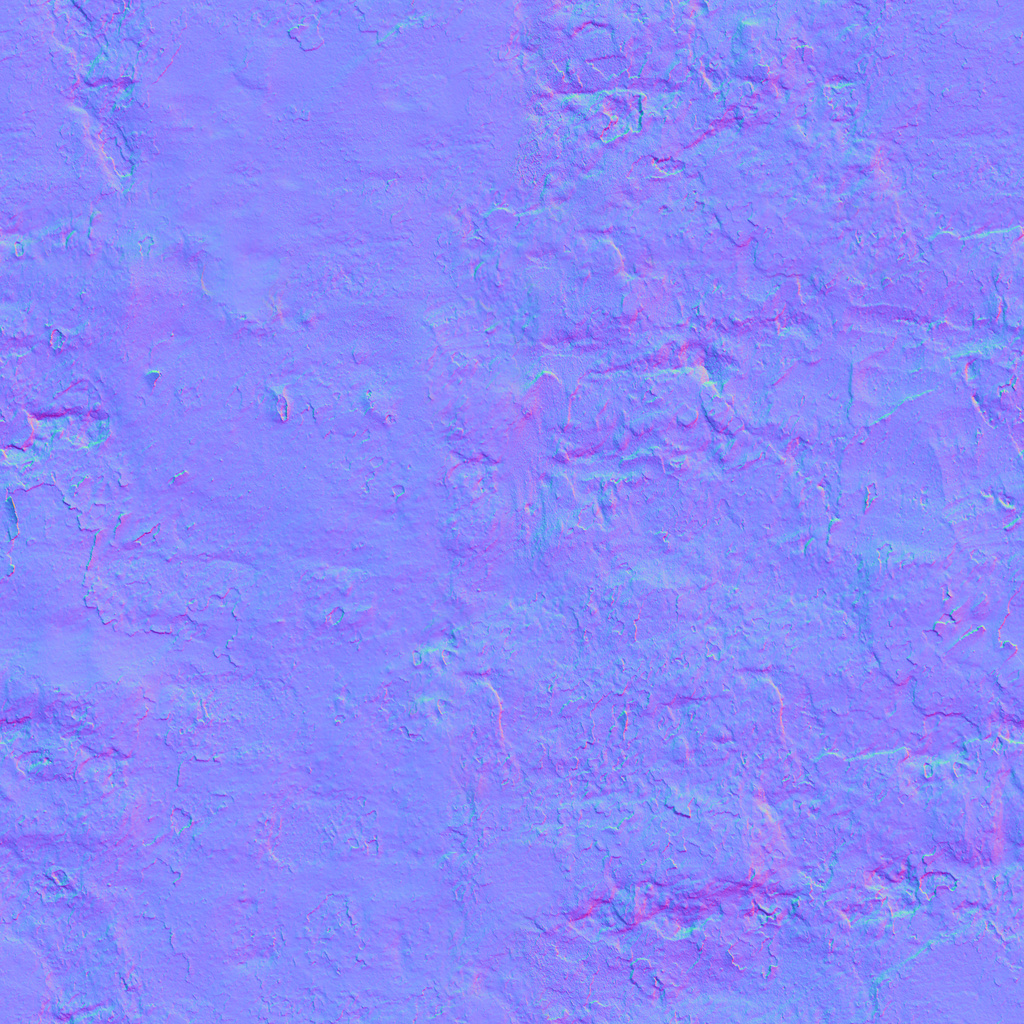
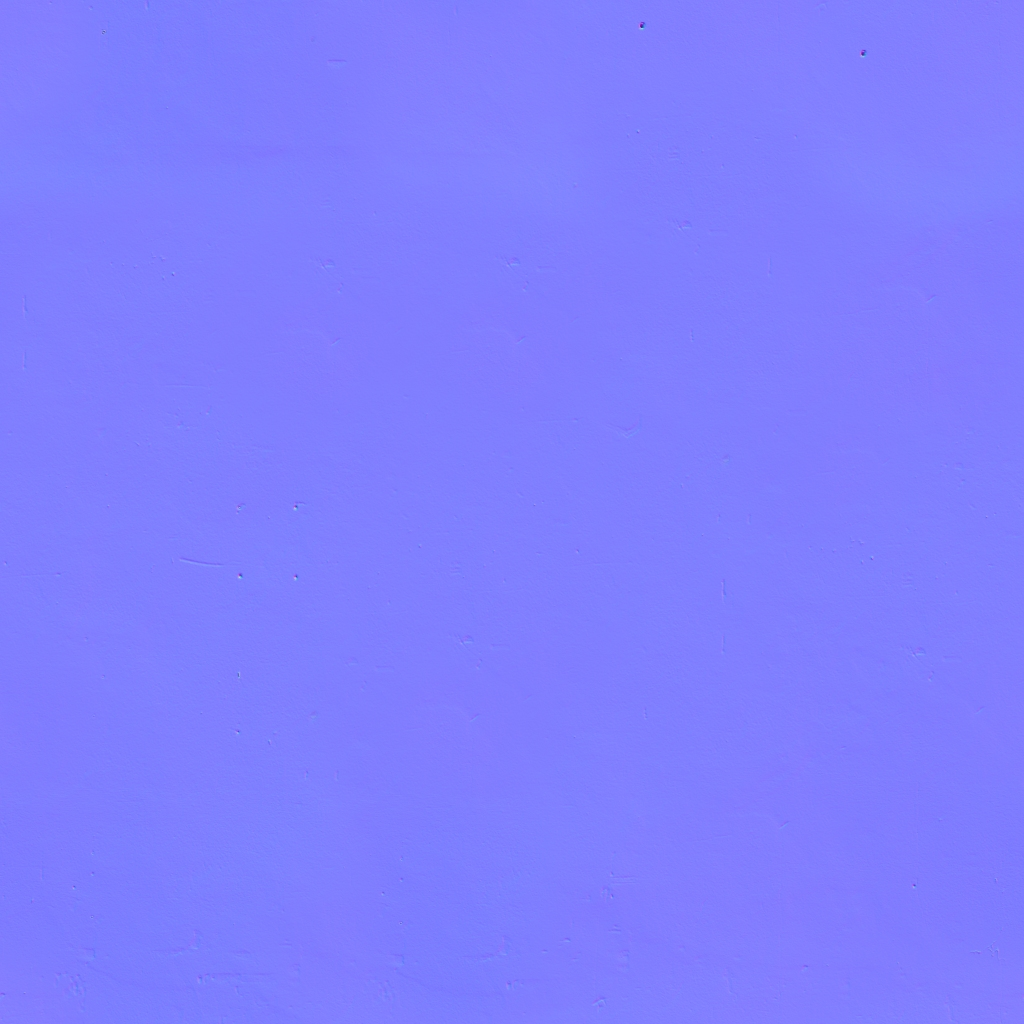
feat(viewer): tune exposure, scope environment to glossy slots, swap ceiling plaster (#179)
Measured the environment lookup as the dominant added GPU cost under
software GL (about 110 of 268 ms CPU per frame), so only the glossy
slots (floors, glass, frames, hard furniture) read it; matte walls,
ceilings, roofs and carpet skip it and the AO sampler. Ceiling set
switched from peeling plaster to smooth painted plaster with a linear
albedo gain; exposure tuned to 0.9.

diff --git a/src/viewer/sceneBuilder.ts b/src/viewer/sceneBuilder.ts
@@ -44,6 +44,7 @@ import {
   UnsignedByteType,
   WebGLRenderer,
   type Material,
+  type MeshStandardMaterial,
   type Object3D,
   type Texture,
 } from 'three';
@@ -295,7 +296,7 @@ export function fitShadowFrustum(
  * decimals), so the picture is tuned here and in the environment
  * intensity only.
  */
-export const TONE_MAPPING_EXPOSURE = 1;
+export const TONE_MAPPING_EXPOSURE = 0.9;
 
 /** Room-environment intensity at full daylight and at the night floor. */
 export const ENV_INTENSITY_NOON = 0.5;
@@ -303,6 +304,25 @@ export const ENV_INTENSITY_NIGHT = 0.12;
 
 /** The room environment is Y-up; the viewer's world is Z-up. */
 const ENV_ROTATION_X_RAD = Math.PI / 2;
+
+/**
+ * Slots that read a specular environment: the glossy floors, glass,
+ * frames and the hard-surface furniture. The matte architectural slots
+ * (walls, ceilings, roofs, carpet) skip the lookup: it is the most
+ * expensive part of the PBR shader on software GL and gains them
+ * little, since the hemisphere and ambient lights already carry their
+ * diffuse fill.
+ */
+const ENV_SLOTS: ReadonlySet<string> = new Set([
+  'wood',
+  'tile',
+  'concrete',
+  'glass',
+  'windowFrame',
+  'furn-wood',
+  'furn-porcelain',
+  'furn-laminate',
+]);
 
 /** Ground plot: how far below the active floor it sits, meters (clears floor slabs). */
 export const GROUND_PLOT_DROP_M = 0.04;
@@ -312,8 +332,13 @@ const CONTACT_SHADOW_LIFT_M = 0.005;
 /** Contact-shadow texture resolution (square, texels). */
 const CONTACT_SHADOW_TEXELS = 128;
 
-/** Scene each light trio belongs to, so applySunPose can retune the environment. */
-const sceneByLights = new WeakMap<ViewerLights, Scene>();
+/** The environment-lit materials of one built scene, keyed by its lights. */
+interface EnvBinding {
+  materials: MeshStandardMaterial[];
+  /** The environment texture the materials currently carry. */
+  attached: Texture | null;
+}
+const envByLights = new WeakMap<ViewerLights, EnvBinding>();
 
 /** Environment intensity for a sun intensity factor (night floor to 1). */
 function environmentIntensityFor(intensityFactor: number): number {
@@ -391,8 +416,11 @@ export function applySunPose(
   lights.sun.intensity = SUN_INTENSITY * state.intensityFactor;
   lights.sun.color.set(SUN_COLOR).lerp(SUN_DUSK_COLOR, state.duskBlend);
   lights.amb.intensity = AMBIENT_INTENSITY * state.ambientFactor;
-  const scene = sceneByLights.get(lights);
-  if (scene) scene.environmentIntensity = environmentIntensityFor(state.intensityFactor);
+  const binding = envByLights.get(lights);
+  if (binding) {
+    const intensity = environmentIntensityFor(state.intensityFactor);
+    for (const m of binding.materials) m.envMapIntensity = intensity;
+  }
   return state;
 }
 
@@ -685,18 +713,20 @@ export function buildViewerScene(
 
   const lights: ViewerLights = { sun, hemi, amb };
   // Environment (#179): the scene is built before configureRenderer
-  // makes the session's room environment, so it is borrowed lazily on
-  // the first render. applySunPose retunes the intensity by time of day.
-  sceneByLights.set(lights, scene);
-  scene.environmentIntensity = ENV_INTENSITY_NOON;
-  scene.environmentRotation.x = ENV_ROTATION_X_RAD;
-  if (quality === 'high') {
-    scene.onBeforeRender = () => {
-      if (sessionEnvironment && scene.environment !== sessionEnvironment.texture) {
-        scene.environment = sessionEnvironment.texture;
-      }
-    };
-  }
+  // makes the session's room environment, so the glossy materials
+  // borrow it lazily on the first render. applySunPose retunes their
+  // intensity by time of day through this binding.
+  const envBinding: EnvBinding = { materials: [], attached: null };
+  envByLights.set(lights, envBinding);
+  scene.onBeforeRender = () => {
+    const env = sessionEnvironment?.texture;
+    if (!env || envBinding.attached === env) return;
+    for (const m of envBinding.materials) {
+      m.envMap = env;
+      m.needsUpdate = true;
+    }
+    envBinding.attached = env;
+  };
   // Default sun pose (issue #121): identity at DEFAULT_SUN_SETTINGS —
   // the noon perch (8, −8, 12) the pre-#121 build hard-coded — so the
   // default output stays byte-identical. The controller re-applies the
@@ -723,6 +753,11 @@ export function buildViewerScene(
     // merged fan windings vary per triangle; double-sided removes any
     // missing-face flicker for negligible cost at this poly count.
     mat.side = DoubleSide;
+    if (hiQuality && quality === 'high' && ENV_SLOTS.has(bucket.slot)) {
+      mat.envMapIntensity = ENV_INTENSITY_NOON;
+      mat.envMapRotation.x = ENV_ROTATION_X_RAD;
+      envBinding.materials.push(mat);
+    }
 
     const mesh = new Mesh(geo, mat);
     mesh.name = `slot-${bucket.slot}`;

diff --git a/tests/unit/viewer.scene-materials.spec.ts b/tests/unit/viewer.scene-materials.spec.ts
@@ -9,6 +9,7 @@ import {
   ACESFilmicToneMapping,
   BufferAttribute,
   Mesh,
+  type MeshStandardMaterial,
   SRGBColorSpace,
   Scene,
   Texture,
@@ -301,31 +302,48 @@ describe('room environment', () => {
     expect(builds).toBe(1);
   });
 
-  it('is attached to a scene built BEFORE the renderer was configured', () => {
-    const built = buildViewerScene(scene([WALL_QUAD]), 'high');
-    expect(built.scene.environment).toBeNull();
+  it('reaches the glossy slots of a scene built BEFORE the renderer was configured', () => {
+    const built = buildViewerScene(scene([FLOOR_QUAD, WALL_QUAD]), 'high');
+    const floor = meshFor(built, 'wood').material as MeshStandardMaterial;
+    expect(floor.envMap).toBeNull();
 
     const env = new Texture();
     ensureEnvironment(fakeRenderer(), () => env);
     renderTick(built.scene);
-    expect(built.scene.environment).toBe(env);
+    expect(floor.envMap).toBe(env);
+  });
+
+  it('turns the environment Y-up to the viewer Z-up', () => {
+    const built = buildViewerScene(scene([FLOOR_QUAD]), 'high');
+    const floor = meshFor(built, 'wood').material as MeshStandardMaterial;
+    expect(floor.envMapRotation.x).toBeCloseTo(Math.PI / 2, 6);
+  });
+
+  it('leaves the matte architectural slots out of the environment lookup', () => {
+    const built = buildViewerScene(scene([WALL_QUAD, ROOF_QUAD]), 'high');
+    ensureEnvironment(fakeRenderer(), () => new Texture());
+    renderTick(built.scene);
+    for (const slot of ['wall', 'roof']) {
+      expect((meshFor(built, slot).material as MeshStandardMaterial).envMap, slot).toBeNull();
+    }
   });
 
   it('LOW scenes never pick the environment up', () => {
-    const built = buildViewerScene(scene([WALL_QUAD]), 'low');
+    const built = buildViewerScene(scene([FLOOR_QUAD]), 'low', true);
     ensureEnvironment(fakeRenderer(), () => new Texture());
     renderTick(built.scene);
-    expect(built.scene.environment).toBeNull();
+    expect((meshFor(built, 'wood').material as MeshStandardMaterial).envMap).toBeNull();
   });
 
   it('applySunPose dims the environment toward night', () => {
-    const built = buildViewerScene(scene([WALL_QUAD]), 'high');
-    const noon = built.scene.environmentIntensity;
+    const built = buildViewerScene(scene([FLOOR_QUAD]), 'high');
+    const floor = meshFor(built, 'wood').material as MeshStandardMaterial;
+    const noon = floor.envMapIntensity;
     applySunPose(built.lights, { timeHours: 22, northOffsetDeg: 0 }, BOUNDS);
-    const night = built.scene.environmentIntensity;
+    const night = floor.envMapIntensity;
     expect(night).toBeLessThan(noon);
     expect(night).toBeGreaterThan(0);
     applySunPose(built.lights, { timeHours: 12, northOffsetDeg: 0 }, BOUNDS);
-    expect(built.scene.environmentIntensity).toBeCloseTo(noon, 6);
+    expect(floor.envMapIntensity).toBeCloseTo(noon, 6);
   });
 });

diff --git a/src/viewer/materials.ts b/src/viewer/materials.ts
@@ -62,11 +62,27 @@ const SLOT_FLAT_COLORS: Record<MaterialSlot, string> = {
 };
 
 /**
- * Albedo tint once a set has loaded, for sets whose scanned colour sits
- * away from the look the slot should have. Absent = white (the map as
- * shot). Values above 1 brighten: three.js does not clamp `color`.
+ * Linear albedo gain once a set has loaded, for sets whose scanned
+ * albedo sits darker than the surface should read. Absent = 1 (the map
+ * as shot). Values above 1 brighten: three.js does not clamp `color`.
+ * The ceiling set is a mid-grey painted plaster; ceilings are white.
  */
-const UPGRADED_TINT: Partial<Record<MaterialSlot, string>> = {};
+const UPGRADED_GAIN: Partial<Record<MaterialSlot, number>> = {
+  ceiling: 3,
+};
+
+/** Matte slots: no AO sampler (indirect light there is a flat hemisphere). */
+const MATTE_SLOTS: ReadonlySet<MaterialSlot> = new Set<MaterialSlot>([
+  'wall',
+  'ceiling',
+  'roof',
+  'carpet',
+]);
+
+/** Tint colour for a linear gain; undefined keeps the loader's white. */
+function gainColor(gain: number | undefined): Color | undefined {
+  return gain === undefined ? undefined : new Color().setScalar(gain);
+}
 
 /** Roughness scalar once the roughness map is in. Absent = 1 (map drives it). */
 const UPGRADED_ROUGHNESS: Partial<Record<MaterialSlot, number>> = {};
@@ -87,6 +103,7 @@ export function buildGroundMaterial(hiQuality = true): MeshStandardMaterial {
   return createPbrMaterial('grass', {
     color: GROUND_FLAT_COLOR,
     roughness: GROUND_ROUGHNESS,
+    ao: false,
   });
 }
 
@@ -124,8 +141,9 @@ export function buildMaterial(slot: MaterialSlot, hiQuality = true): MeshStandar
     return createPbrMaterial(setId, {
       color: SLOT_FLAT_COLORS[slot],
       roughness: FLAT_ROUGHNESS[slot],
-      upgradedColor: UPGRADED_TINT[slot],
+      upgradedColor: gainColor(UPGRADED_GAIN[slot]),
       upgradedRoughness: UPGRADED_ROUGHNESS[slot],
+      ao: !MATTE_SLOTS.has(slot),
     });
   }
   return new MeshStandardMaterial({

diff --git a/src/viewer/assets/loader.ts b/src/viewer/assets/loader.ts
@@ -172,6 +172,11 @@ export interface PbrMaterialOptions {
   upgradedColor?: ColorRepresentation;
   /** Roughness scalar once the map is in; defaults to 1 (map drives it). */
   upgradedRoughness?: number;
+  /**
+   * Wire the packed AO channel (default true). Matte surfaces skip it:
+   * the extra sampler costs real time for little visible gain.
+   */
+  ao?: boolean;
 }
 
 /** Materials still waiting for their set (disposed ones are removed). */
@@ -192,6 +197,7 @@ export function createPbrMaterial(
   options: PbrMaterialOptions,
 ): MeshStandardMaterial {
   const ph = getPlaceholders();
+  const withAo = options.ao ?? true;
   const mat = new MeshStandardMaterial({
     color: options.color,
     roughness: options.roughness,
@@ -199,7 +205,7 @@ export function createPbrMaterial(
     map: ph.white,
     normalMap: ph.normal,
     roughnessMap: ph.arm,
-    aoMap: ph.arm,
+    ...(withAo ? { aoMap: ph.arm } : {}),
   });
 
   pendingUpgrades.add(mat);
@@ -215,7 +221,7 @@ export function createPbrMaterial(
       mat.map = set.color;
       mat.normalMap = set.normal;
       mat.roughnessMap = set.roughness;
-      if (textureSetSpec(setId).packedArm) mat.aoMap = set.roughness;
+      if (withAo && textureSetSpec(setId).packedArm) mat.aoMap = set.roughness;
       mat.color.set(options.upgradedColor ?? 0xffffff);
       mat.roughness = options.upgradedRoughness ?? 1;
       mat.needsUpdate = true;

diff --git a/tests/unit/viewer.materials.spec.ts b/tests/unit/viewer.materials.spec.ts
@@ -115,4 +115,21 @@ describe('buildMaterial — slot routing', () => {
     expect(buildMaterial('wood').color.getHexString()).toBe('a06a3c');
     expect(buildMaterial('ceiling').color.getHexString()).toBe('fafafa');
   });
+
+  it('skips the AO sampler on the matte architectural slots and keeps it on floors', () => {
+    for (const slot of ['wall', 'ceiling', 'roof', 'carpet'] as const) {
+      expect(buildMaterial(slot).aoMap, slot).toBeNull();
+    }
+    for (const slot of ['wood', 'tile', 'concrete'] as const) {
+      expect(buildMaterial(slot).aoMap, slot).toBeTruthy();
+    }
+  });
+
+  it('brightens the ceiling set once loaded: the scanned plaster is a mid grey', async () => {
+    const ceiling = buildMaterial('ceiling');
+    const wall = buildMaterial('wall');
+    await new Promise((r) => setTimeout(r, 0));
+    expect(ceiling.color.r).toBeGreaterThan(1);
+    expect(wall.color.getHexString()).toBe('ffffff');
+  });
 });

diff --git a/tests/unit/viewer.assets.loader.spec.ts b/tests/unit/viewer.assets.loader.spec.ts
@@ -186,6 +186,20 @@ describe('createPbrMaterial — in-place upgrade', () => {
   });
 });
 
+describe('createPbrMaterial — ambient occlusion opt-out', () => {
+  it('wires no AO map, before or after the upgrade, when ao is false', async () => {
+    const { requests, fetcher } = manualFetcher();
+    setTextureFetcher(fetcher);
+    const mat = createPbrMaterial('plaster-white', { color: '#e8e2d8', roughness: 0.92, ao: false });
+    expect(mat.aoMap).toBeNull();
+    for (const r of requests) r.resolve();
+    await flush();
+
+    expect(mat.aoMap).toBeNull();
+    expect(mat.roughnessMap).toBeTruthy();
+  });
+});
+
 describe('createPbrMaterial — failure fallback', () => {
   it('a failed download leaves the flat colour and placeholders, never an empty map', async () => {
     const { requests, fetcher } = manualFetcher();

diff --git a/src/viewer/assets/manifest.ts b/src/viewer/assets/manifest.ts
@@ -54,7 +54,7 @@ const SETS: Record<TextureSetId, TextureSetSpec> = {
   'polished-concrete': { tileMeters: 2, packedArm: true },
   'plaster-white': { tileMeters: 2, packedArm: true },
   'plaster-warm': { tileMeters: 3, packedArm: true },
-  'plaster-ceiling': { tileMeters: 1, packedArm: true },
+  'plaster-ceiling': { tileMeters: 3.2, packedArm: true },
   'roof-shingles': { tileMeters: 2, packedArm: true },
   'exterior-render': { tileMeters: 1.96, packedArm: true },
   grass: { tileMeters: 15, packedArm: true },

diff --git a/public/assets/ATTRIBUTION.md b/public/assets/ATTRIBUTION.md
@@ -37,9 +37,9 @@ downloads from the source (Poly Haven `Diffuse`, `nor_gl` and `arm` JPGs; ambien
 | `public/assets/materials/plaster-warm/color.jpg` | https://polyhaven.com/a/beige_wall_001 | Dimitrios Savva, Rico Cilliers | CC0 1.0 |
 | `public/assets/materials/plaster-warm/normal.jpg` | https://polyhaven.com/a/beige_wall_001 | Dimitrios Savva, Rico Cilliers | CC0 1.0 |
 | `public/assets/materials/plaster-warm/arm.jpg` | https://polyhaven.com/a/beige_wall_001 | Dimitrios Savva, Rico Cilliers | CC0 1.0 |
-| `public/assets/materials/plaster-ceiling/color.jpg` | https://polyhaven.com/a/white_rough_plaster | Rob Tuytel | CC0 1.0 |
-| `public/assets/materials/plaster-ceiling/normal.jpg` | https://polyhaven.com/a/white_rough_plaster | Rob Tuytel | CC0 1.0 |
-| `public/assets/materials/plaster-ceiling/arm.jpg` | https://polyhaven.com/a/white_rough_plaster | Rob Tuytel | CC0 1.0 |
+| `public/assets/materials/plaster-ceiling/color.jpg` | https://polyhaven.com/a/plastered_wall_04 | Rob Tuytel | CC0 1.0 |
+| `public/assets/materials/plaster-ceiling/normal.jpg` | https://polyhaven.com/a/plastered_wall_04 | Rob Tuytel | CC0 1.0 |
+| `public/assets/materials/plaster-ceiling/arm.jpg` | https://polyhaven.com/a/plastered_wall_04 | Rob Tuytel | CC0 1.0 |
 | `public/assets/materials/roof-shingles/color.jpg` | https://polyhaven.com/a/roof_3 | Rob Tuytel | CC0 1.0 |
 | `public/assets/materials/roof-shingles/normal.jpg` | https://polyhaven.com/a/roof_3 | Rob Tuytel | CC0 1.0 |
 | `public/assets/materials/roof-shingles/arm.jpg` | https://polyhaven.com/a/roof_3 | Rob Tuytel | CC0 1.0 |
